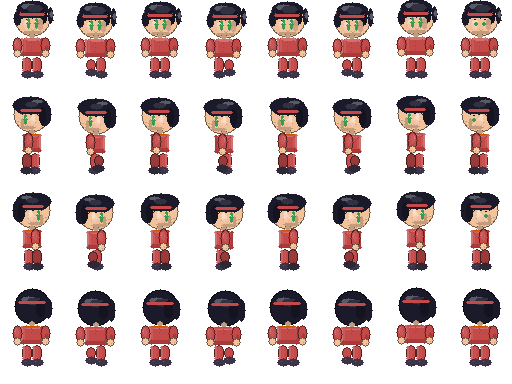
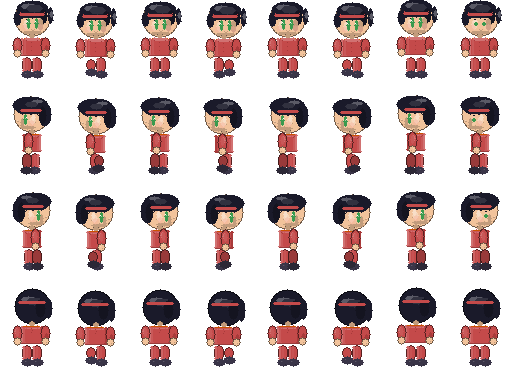
Remove shirtDk bottom band that caused thin shirt-colored line below torso when idle

diff --git a/shared/types.ts b/shared/types.ts
@@ -456,7 +456,12 @@ export type ClientMsg =
   | { type: "respond_invite"; roomId: string; accept: boolean }
   | { type: "player_move"; x: number; y: number; dir: Dir }
   | { type: "npc_update"; npcId: string; x: number; y: number; dir: Dir; state: string }
-  | { type: "tile_update"; cx: number; cy: number; tileIndex: number; tile: number };
+  | { type: "tile_update"; cx: number; cy: number; tileIndex: number; tile: number }
+  | { type: "voice_start" }
+  | { type: "voice_offer"; targetUserId: string; sdp: string }
+  | { type: "voice_answer"; targetUserId: string; sdp: string }
+  | { type: "voice_ice"; targetUserId: string; candidate: string }
+  | { type: "voice_stop" };
 
 export type ServerMsg =
   | {
@@ -504,7 +509,12 @@ export type ServerMsg =
   | { type: "payment_status"; entrancePaid: boolean; subscriptionActive: boolean; subscriptionStatus: string; currentPeriodEnd: number | null }
   | { type: "payment_required"; reason: "entrance" | "subscription"; message: string }
   | { type: "emote"; agentId: string; emote: string }
-  | { type: "agent_chat"; fromId: string; toId: string; fromName: string; toName: string; text: string };
+  | { type: "agent_chat"; fromId: string; toId: string; fromName: string; toName: string; text: string }
+  | { type: "voice_peer"; userId: string; name: string }
+  | { type: "voice_offer"; fromUserId: string; sdp: string }
+  | { type: "voice_answer"; fromUserId: string; sdp: string }
+  | { type: "voice_ice"; fromUserId: string; candidate: string }
+  | { type: "voice_peer_left"; userId: string };
 
 export const SWARMS_MODELS = [
   { id: "openrouter/tencent/hy3:free", label: "Tencent Hy3 (free)" },

diff --git a/shared/char-draw.ts b/shared/char-draw.ts
@@ -653,7 +653,6 @@ export function drawChar(s: DrawSurface, ox: number, oy: number, pal: CharPalett
     rr(bx(tx), by(38), 2, 18, 2, shirtLi);
     rr(bx(tx + 3), by(38), 2, 18, 2, shirtMid);
     rr(bx(tx + tw - 2), by(38), 2, 18, 2, shirtDk);
-    rr(bx(tx), by(52), tw, 4, 3, shirtDk);
     // Soft top glow
     for (let xx = tx + 2; xx < tx + tw - 2; xx++) s.setAlpha(bx(xx), by(38), mix(pal.shirt, "#fff", 0.3), 0.2);
     // Collar V-neck
@@ -745,7 +744,6 @@ export function drawChar(s: DrawSurface, ox: number, oy: number, pal: CharPalett
     rr(bx(utx), by(38), 2, 18, 2, shirtLi);
     rr(bx(utx + 2), by(38), 2, 18, 2, shirtMid);
     rr(bx(utx + utw - 2), by(38), 2, 18, 2, shirtDk);
-    rr(bx(utx), by(52), utw, 4, 3, shirtDk);
     // Soft top glow
     for (let xx = utx + 2; xx < utx + utw - 2; xx++) s.setAlpha(bx(xx), by(38), mix(pal.shirt, "#fff", 0.3), 0.2);
     // Back seam
@@ -860,7 +858,6 @@ export function drawChar(s: DrawSurface, ox: number, oy: number, pal: CharPalett
     rr(bx(rtx), by(38), 2, 18, 2, shirtLi);
     rr(bx(rtx + 2), by(38), 2, 18, 2, shirtMid);
     rr(bx(rtx + rtw - 2), by(38), 2, 18, 2, shirtDk);
-    rr(bx(rtx), by(52), rtw, 4, 3, shirtDk);
     // Soft top glow
     for (let xx = rtx + 2; xx < rtx + rtw - 2; xx++) s.setAlpha(bx(xx), by(38), mix(pal.shirt, "#fff", 0.3), 0.2);
     // Collar

diff --git a/server/ratelimit.ts b/server/ratelimit.ts
@@ -18,6 +18,11 @@ const LIMITS: Record<string, { max: number; refillPerSec: number }> = {
   chat: { max: 60, refillPerSec: 60 / 60 },
   player_move: { max: 600, refillPerSec: 10 },
   npc_update: { max: 600, refillPerSec: 10 },
+  voice_ice: { max: 200, refillPerSec: 50 },
+  voice_offer: { max: 20, refillPerSec: 2 },
+  voice_answer: { max: 20, refillPerSec: 2 },
+  voice_start: { max: 10, refillPerSec: 10 / 60 },
+  voice_stop: { max: 10, refillPerSec: 10 / 60 },
 };
 
 /** Default limit for any message type not explicitly listed. */

diff --git a/server/tenant.ts b/server/tenant.ts
@@ -29,6 +29,7 @@ export interface UserSession {
   broadcast: (msg: ServerMsg) => void;
   cleanup: () => void;
   disconnectTimer: ReturnType<typeof setTimeout> | null;
+  voiceActive: boolean;
 }
 
 /** A player's live state within a room. */
@@ -297,6 +298,7 @@ export class TenantManager {
       broadcast: () => {},
       cleanup: () => {},
       disconnectTimer: null,
+      voiceActive: false,
     };
 
     // ── Broadcast: Redis pub/sub (with in-memory fallback) ──────────────

diff --git a/server/db-relational.ts b/server/db-relational.ts
@@ -119,6 +119,7 @@ export class RelationalPersistence {
         role: r.role as AgentRole,
         sessionId: r.session_id,
         tasksDone: r.tasks_done,
+        mcpServers: r.mcp_servers ?? undefined,
       }));
 
       // Load logs (capped at LOG_CAP per agent)
@@ -330,6 +331,7 @@ export class RelationalPersistence {
       role: a.role,
       session_id: a.sessionId,
       tasks_done: a.tasksDone,
+      mcp_servers: a.mcpServers ?? null,
     }));
 
     if (rows.length > 0) {
